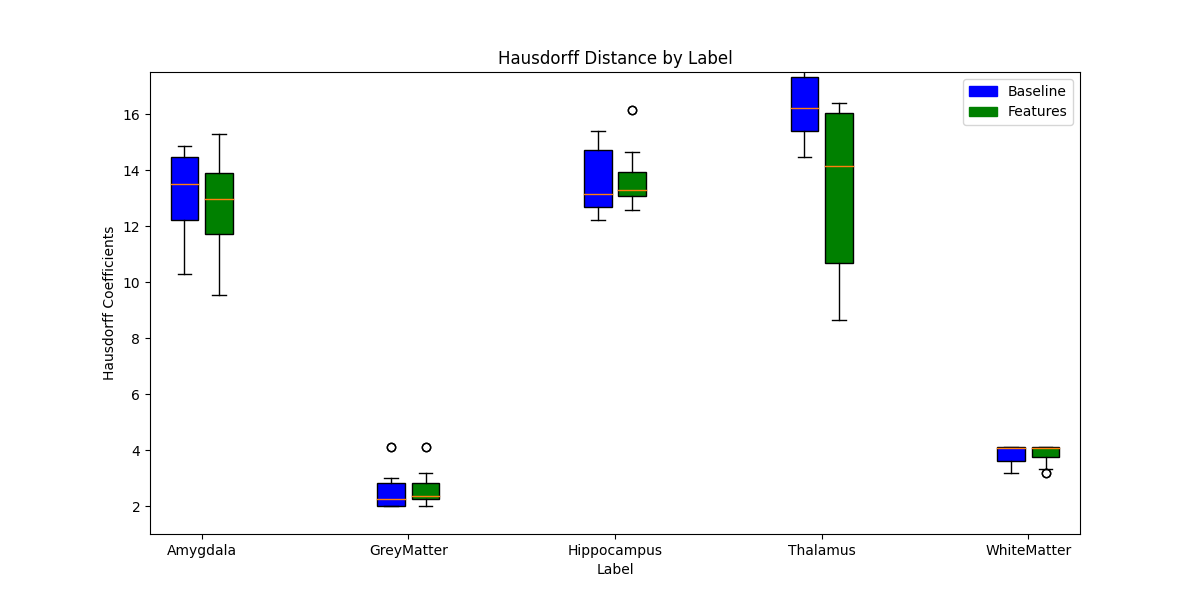
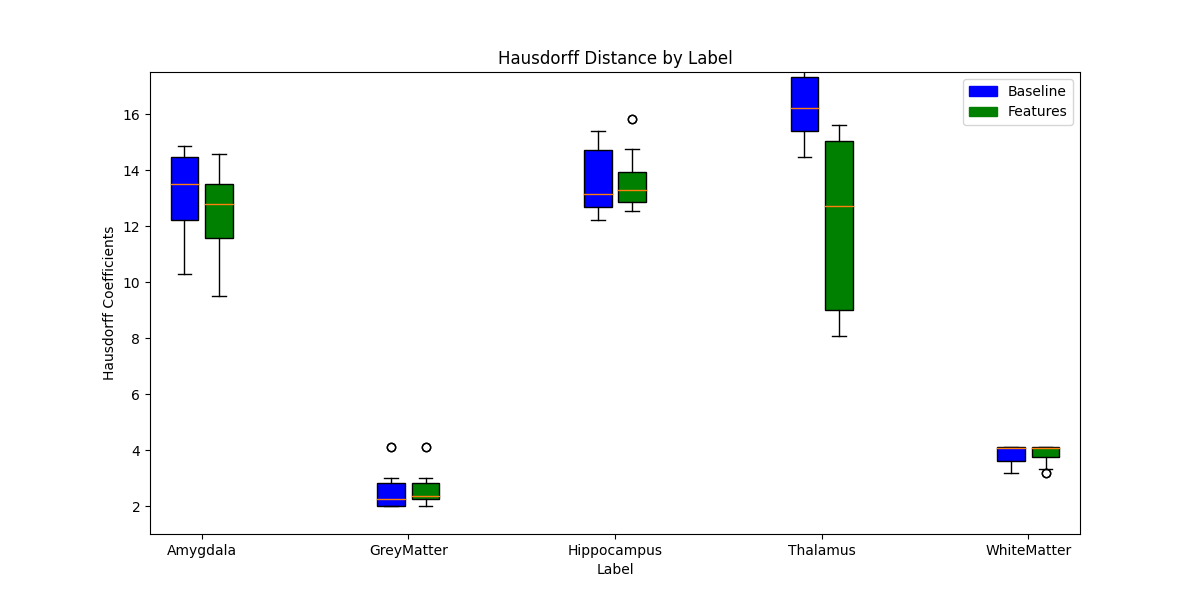
ADD: FO, GLSZM

diff --git a/mialab/utilities/pipeline_utilities.py b/mialab/utilities/pipeline_utilities.py
@@ -9,7 +9,7 @@ import pymia.data.conversion as conversion
 import pymia.evaluation.evaluator as eval_
 import pymia.evaluation.metric as metric
 import pymia.filtering.filter as fltr
-from radiomics import featureextractor, glcm
+from radiomics import featureextractor, glcm, firstorder, glszm
 
 import mialab.data.structure as structure
 import mialab.filtering.feature_extraction as fltr_feat
@@ -40,12 +40,21 @@ class FeatureImageTypes(enum.Enum):
     """Represents the feature image types."""
 
     ATLAS_COORD = 1
+
     T1w_INTENSITY = 2
     T1w_GRADIENT_INTENSITY = 3
+
     T2w_INTENSITY = 4
     T2w_GRADIENT_INTENSITY = 5
-    T1w_GLCM = 6  # DONE: GLCM feature for T1-weighted images
+
+    T1w_GLCM = 6  # GLCM feature for T1-weighted images
     T2w_GLCM = 7  # GLCM feature for T2-weighted images
+
+    T1w_FO = 8  # FO feature for T1-weighted images
+    T2w_FO = 9  # FO feature for T2-weighted images
+
+    T1w_GLSZM = 10  # GLSZM feature for T1-weighted images
+    T2w_GLSZM = 11  # GLSZM feature for T1-weighted images
 
 
 class FeatureExtractor:
@@ -62,15 +71,35 @@ class FeatureExtractor:
         self.coordinates_feature = kwargs.get('coordinates_feature', False)
         self.intensity_feature = kwargs.get('intensity_feature', False)
         self.gradient_intensity_feature = kwargs.get('gradient_intensity_feature', False)
-        self.GLCM_features = kwargs.get('GLCM_features', False)  # TODO: ensure this is correct
-        self.GLCM_features_parameters = kwargs.get('GLCM_features_parameters', {}) # Here too
+
+        # get feature type
+        self.GLCM_features = kwargs.get('GLCM_features', False)
+        self.FO_features = kwargs.get('FO_features', False)
+        self.GLSZM_features = kwargs.get('GLSZM_features', False)
+
+        # get the feature extraction parameters
+        self.GLCM_features_parameters = kwargs.get('GLCM_features_parameters', {})
+        self.FO_features_parameters = kwargs.get('FO_features_parameters', {})
+        self.GLSZM_features_parameters = kwargs.get('GLSZM_features_parameters', {})
+
 
         # Initialize PyRadiomics feature extractor for GLCM features
         if self.GLCM_features:
-            self.pyradiomics_extractor = featureextractor.RadiomicsFeatureExtractor()
-            self.pyradiomics_extractor.disableAllFeatures()
-            self.pyradiomics_extractor.enableFeatureClassByName('glcm')
+            self.pyradiomics_extractor_GLCM = featureextractor.RadiomicsFeatureExtractor()
+            self.pyradiomics_extractor_GLCM.disableAllFeatures()
+            self.pyradiomics_extractor_GLCM.enableFeatureClassByName('glcm')
 
+        # Initialize PyRadiomics feature extractor for FO features
+        if self.FO_features:
+            self.pyradiomics_extractor_FO = featureextractor.RadiomicsFeatureExtractor()
+            self.pyradiomics_extractor_FO.disableAllFeatures()
+            self.pyradiomics_extractor_FO.enableFeatureClassByName('firstorder')
+
+        # Initialize PyRadiomics feature extractor for GLSZM features
+        if self.GLSZM_features:
+            self.pyradiomics_extractor_GLSZM = featureextractor.RadiomicsFeatureExtractor()
+            self.pyradiomics_extractor_GLSZM.disableAllFeatures()
+            self.pyradiomics_extractor_GLSZM.enableFeatureClassByName('glszm')
 
     @property
     def execute(self) -> structure.BrainImage:
@@ -97,9 +126,8 @@ class FeatureExtractor:
             self.img.feature_images[FeatureImageTypes.T2w_GRADIENT_INTENSITY] = \
                 sitk.GradientMagnitude(self.img.images[structure.BrainImageTypes.T2w])
 
+        # compute GLCM features
         if self.GLCM_features:
-            # compute GLCM features
-
             # Assuming self.img.images[structure.BrainImageTypes.T1w] is your T1-weighted image
             # and self.img.images[structure.BrainImageTypes.BrainMask] is your brain mask
 
@@ -109,7 +137,7 @@ class FeatureExtractor:
                                                   voxelBased=True)
 
             # Print the GLCM features that are in use
-            print("GLCM features in use:", self.GLCM_features_parameters)
+            print("GLCM features in use:", [key for key, value in self.GLCM_features_parameters.items() if value])
 
             # Enable specified GLCM features
             glcmT1w_features.enabledFeatures = self.GLCM_features_parameters
@@ -145,6 +173,66 @@ class FeatureExtractor:
 
             # Store the composite image for T2-weighted
             self.img.feature_images[FeatureImageTypes.T2w_GLCM] = composite_image_t2
+
+        # compute FO features
+        if self.FO_features:
+            # Assuming self.img.images[structure.BrainImageTypes.T1w] is your T1-weighted image
+            # and self.img.images[structure.BrainImageTypes.BrainMask] is your brain mask
+
+            # Enable FO features based on the specified FO feature parameters
+            foT1w_features = firstorder.RadiomicsFirstOrder(self.img.images[structure.BrainImageTypes.T1w],
+                                                            self.img.images[structure.BrainImageTypes.BrainMask],
+                                                            voxelBased=True)
+
+            # Print the FO features that are in use
+            print("FO features in use:", [key for key, value in self.FO_features_parameters.items() if value])
+
+            # Enable specified FO features
+            foT1w_features.enabledFeatures = self.FO_features_parameters
+
+            # Execute FO feature extraction on the T1-weighted image
+            self.img.feature_images[FeatureImageTypes.T1w_FO] = foT1w_features.execute()
+
+            # Combine individual FO features into a composite image (if needed)
+            composite_image_t1_fo = sitk.Compose(list(self.img.feature_images[FeatureImageTypes.T1w_FO].values()))
+
+            # Copy information from the original T1-weighted image
+            composite_image_t1_fo.CopyInformation(self.img.images[structure.BrainImageTypes.T1w])
+
+            # Store the composite image for T1-weighted FO
+            self.img.feature_images[FeatureImageTypes.T1w_FO] = composite_image_t1_fo
+
+            # Similar steps for T2-weighted FO features
+
+        # compute GLSZM features
+        if self.GLSZM_features:
+            # Assuming self.img.images[structure.BrainImageTypes.T1w] is your T1-weighted image
+            # and self.img.images[structure.BrainImageTypes.BrainMask] is your brain mask
+
+            # Enable GLSZM features based on the specified GLSZM feature parameters
+            glszmT1w_features = glszm.RadiomicsGLSZM(self.img.images[structure.BrainImageTypes.T1w],
+                                                     self.img.images[structure.BrainImageTypes.BrainMask],
+                                                     voxelBased=True)
+
+            # Print the GLSZM features that are in use
+            print("GLSZM features in use:", [key for key, value in self.GLSZM_features_parameters.items() if value])
+
+            # Enable specified GLSZM features
+            glszmT1w_features.enabledFeatures = self.GLSZM_features_parameters
+
+            # Execute GLSZM feature extraction on the T1-weighted image
+            self.img.feature_images[FeatureImageTypes.T1w_GLSZM] = glszmT1w_features.execute()
+
+            # Combine individual GLSZM features into a composite image (if needed)
+            composite_image_t1_glszm = sitk.Compose(list(self.img.feature_images[FeatureImageTypes.T1w_GLSZM].values()))
+
+            # Copy information from the original T1-weighted image
+            composite_image_t1_glszm.CopyInformation(self.img.images[structure.BrainImageTypes.T1w])
+
+            # Store the composite image for T1-weighted GLSZM
+            self.img.feature_images[FeatureImageTypes.T1w_GLSZM] = composite_image_t1_glszm
+
+            # Similar steps for T2-weighted GLSZM features
 
         self._generate_feature_matrix()
         return self.img
@@ -193,7 +281,6 @@ class FeatureExtractor:
         # Concatenate the processed feature data along the specified axis (axis=1)
         data = np.concatenate(image_data_list, axis=1)
 
-
         # generate features
         # data = np.concatenate(
         #     [self._image_as_numpy_array(image, mask) for id_, image in self.img.feature_images.items()],
@@ -203,36 +290,6 @@ class FeatureExtractor:
         labels = self._image_as_numpy_array(self.img.images[structure.BrainImageTypes.GroundTruth], mask)
 
         self.img.feature_matrix = (data.astype(np.float32), labels.astype(np.int16))
-
-    def _process_glcm_feature(self, glcm_feature, mask):
-        """Processes the GLCM feature to make it compatible with the feature matrix.
-
-        Args:
-            glcm_feature (dict): The GLCM feature dictionary.
-            mask (np.ndarray): The mask to apply to the feature.
-
-        Returns:
-            np.ndarray: The processed GLCM feature array.
-        """
-
-        # I don't think this method is necessary, but I'm leaving it here for now
-        # DONE : Process GLCM feature
-        # Assuming the GLCM feature is in a dictionary format with the key 'imc1'
-        feature_array = glcm_feature.get('Imc1')
-
-        # Reshape or process the GLCM feature as necessary to match your feature matrix format
-        # The specifics of this will depend on the format of your GLCM feature data
-        # For example, if feature_array is a 3D array (x, y, z), you may need to flatten it
-        # and apply the mask to select only the relevant voxels
-
-        # Example of flattening and applying mask (adjust as needed):
-        feature_array_flattened = feature_array.flatten()
-        masked_feature = feature_array_flattened[mask]
-
-        # Reshape to match the (n_voxels, 1) format expected for each feature
-        processed_feature = masked_feature.reshape(-1, 1)
-
-        return processed_feature
 
     @staticmethod
     def _image_as_numpy_array(image: sitk.Image, mask: np.ndarray = None):

diff --git a/bin/main.py b/bin/main.py
@@ -64,10 +64,69 @@ def main(result_dir: str, data_atlas_dir: str, data_train_dir: str, data_test_di
                                           futil.BrainImageFilePathGenerator(),
                                           futil.DataDirectoryFilter())
 
-    glcm_parameters_list = {'Imc1': True,
-                            'Imc2': True,
+    # set parameters for pre-processing
+
+    glszm_parameters_list = {'SmallAreaEmphasis': True,
+                             'LargeAreaEmphasis': True,
+                             'GrayLevelNonUniformity': False,
+                             'GrayLevelNonUniformityNormalized': False,
+                             'SizeZoneNonUniformity': False,
+                             'SizeZoneNonUniformityNormalized': False,
+                             'ZonePercentage': False,
+                             'GrayLevelVariance': False,
+                             'ZoneVariance': False,
+                             'ZoneEntropy': False,
+                             'LowGrayLevelZoneEmphasis': False,
+                             'HighGrayLevelZoneEmphasis': False,
+                             'SmallAreaLowGrayLevelEmphasis': False,
+                             'SmallAreaHighGrayLevelEmphasis': False,
+                             'LargeAreaLowGrayLevelEmphasis': False,
+                             'LargeAreaHighGrayLevelEmphasis': False,
+                             }
+
+    fo_parameters_list = {'10Percentile': True,
+                          '90Percentile': True,
+                          'Energy': False,
+                          'Entropy': False,
+                          'InterquartileRange': False,
+                          'Kurtosis': False,
+                          'Maximum': False,
+                          'MeanAbsoluteDeviation': False,
+                          'Mean': False,
+                          'Median': False,
+                          'Minimum': False,
+                          'Range': False,
+                          'RobustMeanAbsoluteDeviation': False,
+                          'RootMeanSquared': False,
+                          'Skewness': False,
+                          'TotalEnergy': False,
+                          'Uniformity': False,
+                          'Variance': False}
+
+    glcm_parameters_list = {'Autocorrelation': False,
+                            'ClusterProminence': False,
+                            'ClusterShade': False,
+                            'ClusterTendency': False,
+                            'Contrast': False,
+                            'Correlation': False,
+                            'DifferenceAverage': False,
+                            'DifferenceEntropy': False,
+                            'DifferenceVariance': False,
+                            'Id': False,
                             'Idm': True,
-                            }
+                            'Idmn': False,
+                            'Idn': False,
+                            'Imc1': True,
+                            'Imc2': True,
+                            'InverseVariance': False,
+                            'JointAverage': False,  # cause error
+                            'JointEnergy': False,
+                            'JointEntropy': False,
+                            'MCC': False,  # cause error
+                            'MaximumProbability': False,
+                            'SumAverage': False,  # cause error
+                            'SumEntropy': False,
+                            'SumSquares': False}
 
     pre_process_params = {'skullstrip_pre': True,
                           'normalization_pre': True,
@@ -75,8 +134,12 @@ def main(result_dir: str, data_atlas_dir: str, data_train_dir: str, data_test_di
                           'coordinates_feature': True,
                           'intensity_feature': True,
                           'gradient_intensity_feature': True,
-                          'GLCM_features': True,  # Enable GLCM feature extraction
+                          'GLCM_features': False,  # Enable GLCM feature extraction
                           'GLCM_features_parameters': glcm_parameters_list,
+                          'FO_features': False,  # Enable FO feature extraction
+                          'FO_features_parameters': fo_parameters_list,
+                          'GLSZM_features': True,  # Enable GLSZM feature extraction
+                          'GLSZM_features_parameters': glszm_parameters_list,
                           'n_estimators': 50,
                           'max_depth': 60
                           }

diff --git a/bin/boxplot.py b/bin/boxplot.py
@@ -10,8 +10,8 @@ def main():
     current_directory = os.getcwd()
     target_directory = os.path.join(current_directory, 'mia-result')
 
-    folder_name_baseline = '10'  # Change here!!!!!!!!!# Baseline
-    folder_name_features = '2023-11-22-21-21-28'  # Change here!!!!!!!!!
+    folder_name_baseline = '1'  # Change here!!!!!!!!!# Baseline
+    folder_name_features = '2023-11-23-11-13-10'  # Change here!!!!!!!!!
     file_name = 'results.csv'
 
     file_path_baseline = os.path.join(target_directory, folder_name_baseline, file_name)
